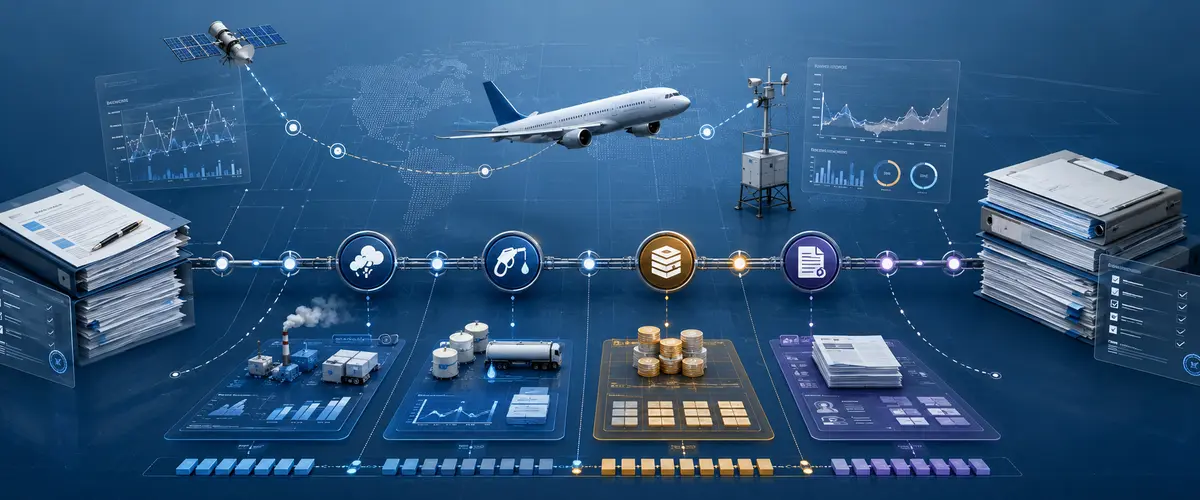
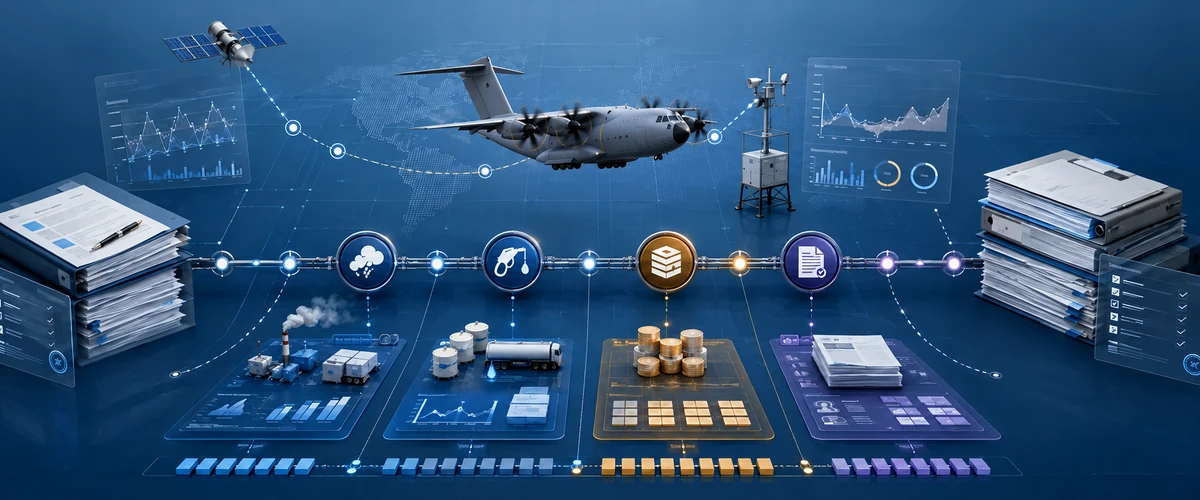
Replace civilian module aircraft visuals

diff --git a/src/routes/modules.tsx b/src/routes/modules.tsx
@@ -8,6 +8,8 @@ import { listModulesWithLessonCount, localizeModuleList } from "@/lib/modules";
 
 const assetUrl = (path: string) => `${import.meta.env.BASE_URL}${path.replace(/^\/+/, "")}`;
 
+// Visual policy: nature or vegetation never shares an image with an aircraft.
+// Any aircraft shown must be an A400M or Eurofighter in a vegetation-free technical setting.
 const moduleCovers = [
   assetUrl("module-covers/module-01-systems.webp"),
   assetUrl("module-covers/module-02-climate.webp"),

diff --git a/docs/course-content-standard.md b/docs/course-content-standard.md
@@ -23,3 +23,11 @@ Each module must function as a genuine learning unit rather than a short article
 - Avoid presenting public corporate targets as guaranteed outcomes.
 - Avoid confidential or internal Airbus information.
 - Prefer primary sources such as Airbus public documentation, EASA, ICAO, the European Commission, IPCC and recognised aviation standards bodies.
+
+## Visual policy
+
+- Vegetation and aircraft must never appear in the same image.
+- Nature and vegetation visuals must contain no aircraft.
+- Aircraft visuals may show only the Airbus A400M or Eurofighter Typhoon.
+- A400M and Eurofighter visuals must use technical, industrial, hangar, apron, laboratory or abstract data settings with no visible vegetation.
+- Do not use civilian aircraft, generic passenger jets or visual associations that imply an unverified positive environmental performance.
